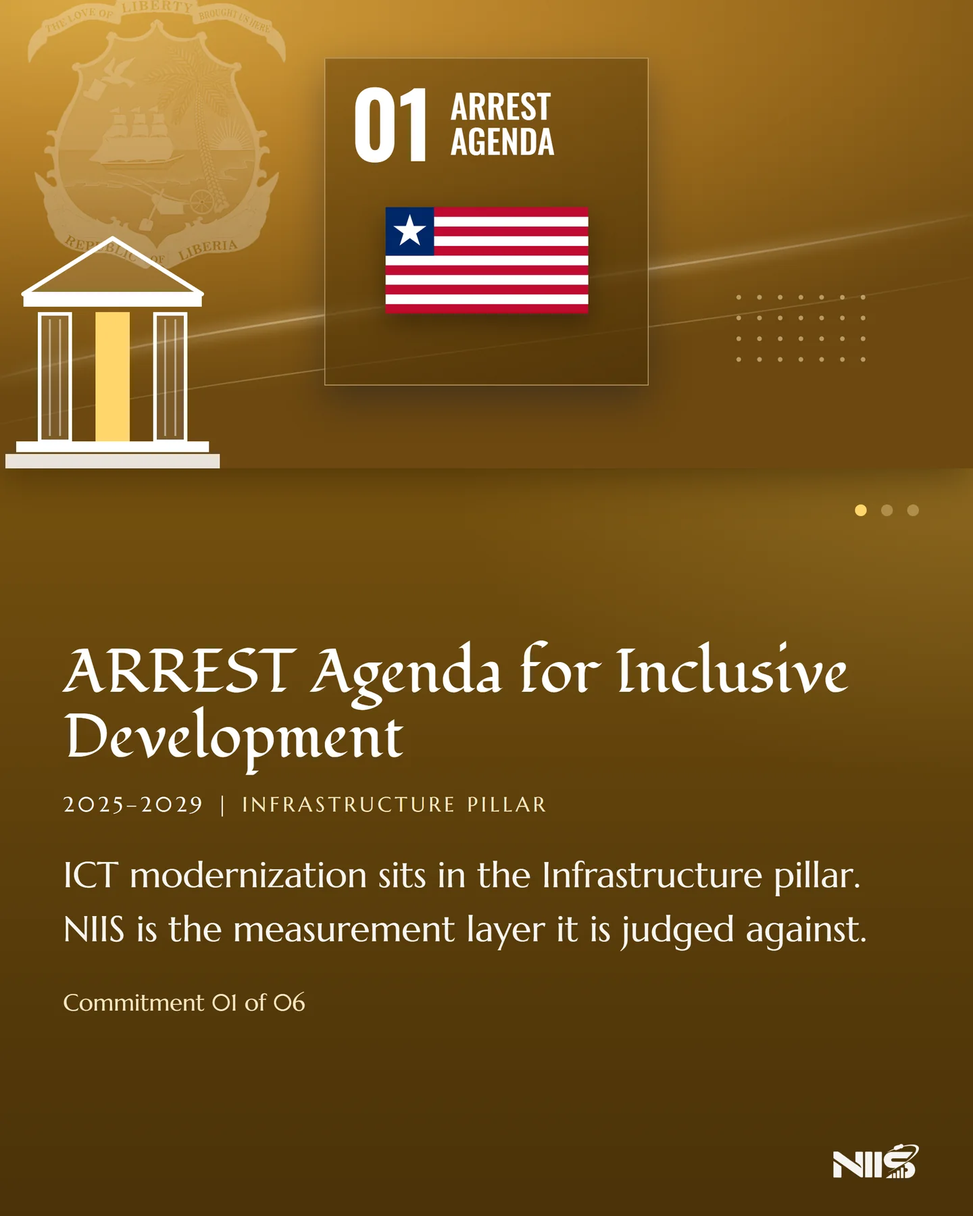
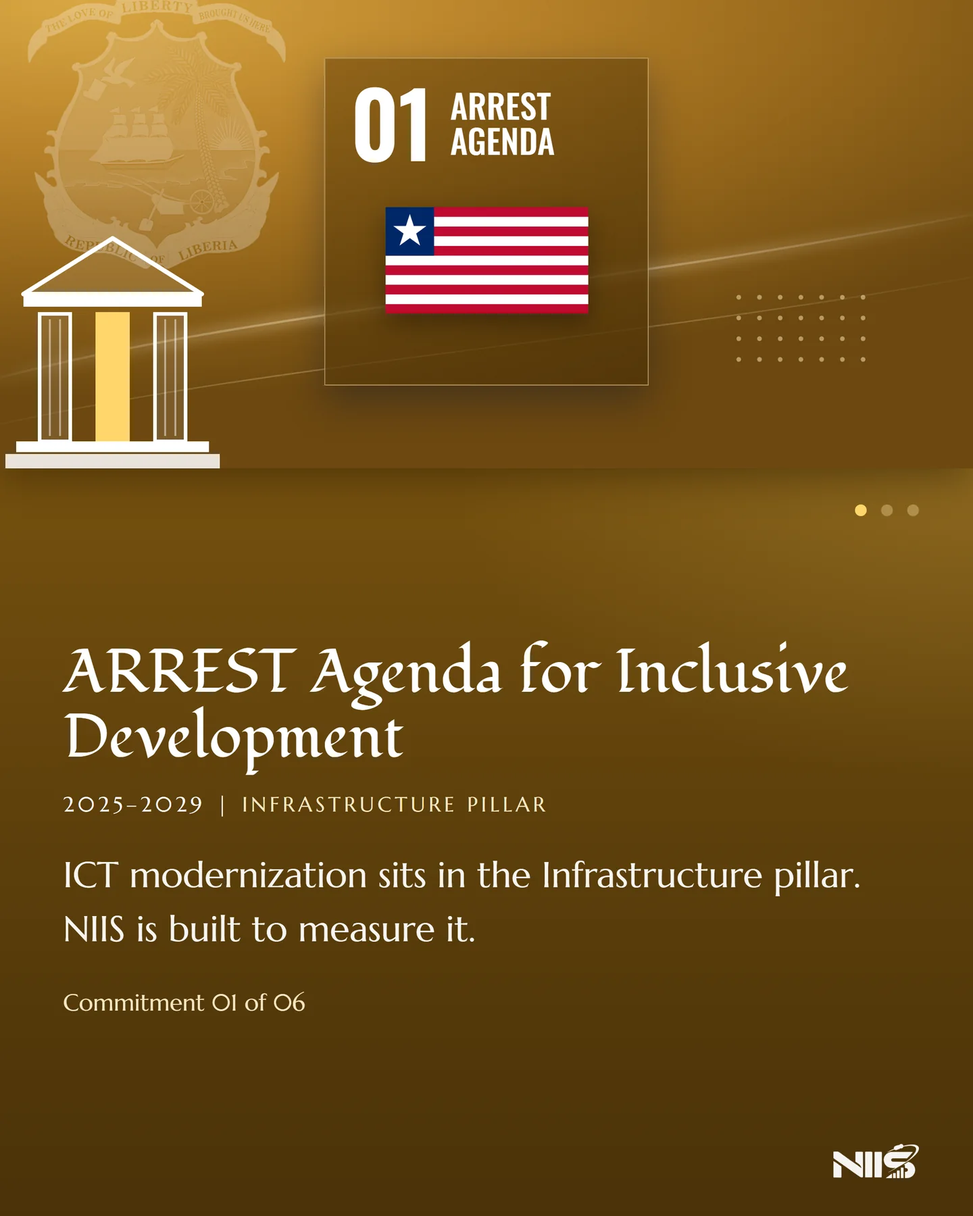
Site: nothing says or implies the Government of Liberia funds or works with NIIP
The owner (9 Nov 2026): NIIP intends to work with the government and is in talks ahead
of its official launch in 2027.

- About: "funded by the Government of Liberia" removed; the mission no longer calls
  NIIS the official source, and the answer no longer has it serving the President.
- FAQ: who NIIP is, in the owner's words (intends to work with the government, talks
  ahead of the 2027 launch); data credited to NIIP, not a Ministry unit.
- The "ICT Statistics & Policy Unit" at the Ministry becomes the NIIP team everywhere
  (research submissions, careers, messages, the workspace, errors).
- Our Partners: no ministry or government agency is listed (rows and logos are kept).
- Footer: the LTA and Ministry links that led to NIIP's own About page are gone.
- About commitment cards 01 and 02 re-rendered: NIIS is built to measure and serve
  those commitments, not their official instrument.
- Data Explorer: an indicator's original agency is no longer sent to the browser.

Kept at the owner's word: the patrons, the Ministry building on the first slide, the
officials' quotes. The documents are unchanged for now.

Changed region(s): [[0.1875, 0.7467, 0.875, 0.7778]]

diff --git a/views.js b/views.js
@@ -249,8 +249,6 @@ function footerDh() {
         <div class="footer-social"><a class="s-fb" href="#" aria-label="Facebook"><svg viewBox="0 0 320 512" aria-hidden="true"><path d="M80 299.3V512H196V299.3h86.5l18-97.8H196V166.9c0-51.7 20.3-71.5 72.7-71.5c16.3 0 29.4 .4 37 1.2V7.9C291.4 4 256.4 0 236.2 0C129.3 0 80 50.5 80 159.4v42.1H14v97.8H80z"/></svg></a><a class="s-x" href="#" aria-label="X"><svg viewBox="0 0 512 512" aria-hidden="true"><path d="M389.2 48h70.6L305.6 224.2 487 464H345L233.7 318.6 106.5 464H35.8L200.7 275.5 26.8 48H172.4L272.9 180.9 389.2 48zM364.4 421.8h39.1L151.1 88h-42L364.4 421.8z"/></svg></a><a class="s-li" href="#" aria-label="LinkedIn"><svg viewBox="0 0 448 512" aria-hidden="true"><path d="M100.28 448H7.4V148.9h92.88zM53.79 108.1C24.09 108.1 0 83.5 0 53.8a53.79 53.79 0 0 1 107.58 0c0 29.7-24.1 54.3-53.79 54.3zM447.9 448h-92.68V302.4c0-34.7-.7-79.2-48.29-79.2-48.29 0-55.69 37.7-55.69 76.7V448h-92.78V148.9h89.08v40.8h1.3c12.4-23.5 42.69-48.3 87.88-48.3 94 0 111.28 61.9 111.28 142.3V448z"/></svg></a><a class="s-ig" href="#" aria-label="Instagram"><svg viewBox="0 0 448 512" aria-hidden="true"><path d="M224.1 141c-63.6 0-114.9 51.3-114.9 114.9s51.3 114.9 114.9 114.9S339 319.5 339 255.9 287.7 141 224.1 141zm0 189.6c-41.1 0-74.7-33.5-74.7-74.7s33.5-74.7 74.7-74.7 74.7 33.5 74.7 74.7-33.6 74.7-74.7 74.7zm146.4-194.3c0 14.9-12 26.8-26.8 26.8-14.9 0-26.8-12-26.8-26.8s12-26.8 26.8-26.8 26.8 12 26.8 26.8zm76.1 27.2c-1.7-35.9-9.9-67.7-36.2-93.9-26.2-26.2-58-34.4-93.9-36.2-37-2.1-147.9-2.1-184.9 0-35.8 1.7-67.6 9.9-93.9 36.1s-34.4 58-36.2 93.9c-2.1 37-2.1 147.9 0 184.9 1.7 35.9 9.9 67.7 36.2 93.9s58 34.4 93.9 36.2c37 2.1 147.9 2.1 184.9 0 35.9-1.7 67.7-9.9 93.9-36.2 26.2-26.2 34.4-58 36.2-93.9 2.1-37 2.1-147.8 0-184.8zM398.8 388c-7.8 19.6-22.9 34.7-42.6 42.6-29.5 11.7-99.5 9-132.1 9s-102.7 2.6-132.1-9c-19.6-7.8-34.7-22.9-42.6-42.6-11.7-29.5-9-99.5-9-132.1s-2.6-102.7 9-132.1c7.8-19.6 22.9-34.7 42.6-42.6 29.5-11.7 99.5-9 132.1-9s102.7-2.6 132.1 9c19.6 7.8 34.7 22.9 42.6 42.6 11.7 29.5 9 99.5 9 132.1s2.7 102.7-9 132.1z"/></svg></a></div>
       </div>
       <div><h4>Links</h4>
-        <a href="/about">Liberia Telecommunications Authority</a>
-        <a href="/about">Ministry of Posts &amp; Telecommunications</a>
         <a href="/about">Harris &amp; Associates LLC</a>
         <a href="/research">Research Papers</a>
         <a href="/research/group">Research Group</a>
@@ -1587,7 +1585,7 @@ exports.dataExplorer = (ctx, { indicators, indicatorsByDomain, domainOrder, doma
     </div>
     <div class="dx-fs-body" id="dx-fs-body"></div>
   </div>
-  <script>window.__NICTD_PAGE__='explorer';window.__EXPLORER_STATE__=${JSON.stringify({ indicator: meta.code, year: meta.year || 2025, focus: focus || '', compare: compare || '', indicators, counties: counties.map((c) => ({ name: c.name })) })};</script>`,
+  <script>window.__NICTD_PAGE__='explorer';window.__EXPLORER_STATE__=${JSON.stringify({ indicator: meta.code, year: meta.year || 2025, focus: focus || '', compare: compare || '', indicators: indicators.map(({ agencyOriginal, ...i }) => i), counties: counties.map((c) => ({ name: c.name })) })};</script>`,
 });
 
 
@@ -1878,8 +1876,8 @@ exports.dashboardTopic = (ctx, { slug, label, description, counties, narrative }
 const SLIDES = [
   ['What we do. 15 counties, collected, validated, published. We collect, validate and publish Liberia’s ICT statistics for all 15 counties, and we build the infrastructure that keeps them at home.'],
   ['Why we do it. For Liberia’s national commitments, and to create jobs for young Liberians in tech: 174 positions across eight role types, from enumerators and supervisors in every county to research leads, data engineers, GIS and sampling specialists, quality analysts and developers, recruited from Liberian STEM graduates and trained locally. See open roles.', '/careers'],
-  ['Commitment 1 of 6: ARREST Agenda for Inclusive Development, 2025 to 2029. ICT modernization sits in the Infrastructure pillar. NIIS is the measurement layer it is judged against.'],
-  ['Commitment 2 of 6: National Digital Strategy, 2025 to 2029, of the Ministry of Posts and Telecommunications. Cybersecurity and data sovereignty is one of its eight priorities. This is that pillar, made operational.'],
+  ['Commitment 1 of 6: ARREST Agenda for Inclusive Development, 2025 to 2029. ICT modernization sits in the Infrastructure pillar. NIIS is built to measure it.'],
+  ['Commitment 2 of 6: National Digital Strategy, 2025 to 2029, of the Ministry of Posts and Telecommunications. Cybersecurity and data sovereignty is one of its eight priorities. NIIS is built to serve it.'],
   ['Commitment 3 of 6: Data Protection Act, enacted 2026. Built to Liberia’s first personal-data law: aggregate, anonymized statistics only.'],
   ['Commitment 4 of 6: AU Data Policy Framework, adopted 2022. Continental policy since 2022: member states are expected to hold and govern their own data.'],
   ['Commitment 5 of 6: United Nations Sustainable Development Goals, Target 17.18. Increase significantly the availability of high-quality, timely and reliable data disaggregated by income, gender, age, race, ethnicity, migratory status, disability, geographic location and other characteristics relevant in national contexts. County-level is the target, verbatim.'],
@@ -1905,9 +1903,9 @@ exports.about = (ctx, { indicatorCount = 0, domainCount = 0 } = {}) => {
   // the mission, the problem and the answer, cut short for the kinetic type (the owner asked for few
   // words); the words between asterisks are set in blue
   const story = [
-    ['“THE MISSION”', 'Liberia’s *official* source of ICT data. All *fifteen counties.* One *trusted* system.'],
+    ['“THE MISSION”', 'Liberia’s *own* source of ICT data. All *fifteen counties.* One *trusted* system.'],
     ['“THE PROBLEM”', 'For two decades, Liberia’s digital story was told with numbers from *somewhere else.*'],
-    ['“THE ANSWER”', 'President Boakai wants to *modernize* ICT in Liberia. NIIS gives him the data he needs in *real time.*'],
+    ['“THE ANSWER”', 'Liberia wants to *modernize* its ICT. NIIS will give it the data it needs in *real time.*'],
   ];
 
   const bench = [
@@ -1920,14 +1918,14 @@ exports.about = (ctx, { indicatorCount = 0, domainCount = 0 } = {}) => {
   ];
 
   const faqs = [
-    ['How is NIIS data licensed?', 'All open data published through NIIS is available under an open licence for research, journalism and policy use, with attribution to the ICT Statistics & Policy Unit, Ministry of Posts and Telecommunications. Open by default is a design principle, not a concession.'],
+    ['How is NIIS data licensed?', 'All open data published through NIIS is available under an open licence for research, journalism and policy use, with attribution to the National ICT Intelligence Program (NIIP). Open by default is a design principle, not a concession.'],
     ['How often is the data updated?', 'Most indicators refresh annually following the national survey wave; a subset fed by operator data-sharing agreements refreshes biennially. Each indicator’s periodicity is shown in the Indicator Catalogue.'],
     ['How is this different from the data international agencies already publish on Liberia?', 'International datasets are indispensable and we use them. But where national returns are incomplete they are modelled or trend-projected, and they report Liberia as one national figure. NIIS collects observed values, disaggregates them to all 15 counties, and publishes the method alongside the number.'],
-    ['Is NIIP a government body or a private initiative?', 'NIIP is a private-sector-led initiative delivering a national public good, working with the Ministry of Posts and Telecommunications and contributing agencies under data-sharing cooperation. The platform is built to be handed to, and sustained by, Liberian institutions.'],
+    ['Is NIIP a government body or a private initiative?', 'NIIP is a private-sector-led initiative delivering a national public good. We intend to work with the Government of Liberia, and have been holding very progressive talks ahead of our official launch in 2027. The platform is built to be handed to, and sustained by, Liberian institutions.'],
     ['What happens when donor funding ends?', 'The programme is designed for transition, not dependency: infrastructure hosted in-country, methodology documented and published, staff recruited and trained locally, and a services and licensing model intended to carry recurring costs after the establishment phase.'],
     ['How do you protect personal data?', 'NIIS publishes aggregate, anonymized statistics only. It collects no individual-level personal data beyond what is required to produce those aggregates, in line with Liberia’s Data Protection Act.'],
-    ['How do I request a new indicator?', 'Registered users can reach the ICT Statistics & Policy Unit directly through the platform’s messaging system once logged in.'],
-    ['Can I use this data in a publication?', 'Yes, cite NIIS and the ICT Statistics & Policy Unit. Values are demonstration data pending production feeds; check the methodology note on each indicator before publication.'],
+    ['How do I request a new indicator?', 'Registered users can reach the NIIP team directly through the platform’s messaging system once logged in.'],
+    ['Can I use this data in a publication?', 'Yes, cite NIIS and the National ICT Intelligence Program (NIIP). Values are demonstration data pending production feeds; check the methodology note on each indicator before publication.'],
   ];
 
   const rise = (i = 0) => ` data-rise style="--i:${i}"`;
@@ -1961,7 +1959,7 @@ exports.about = (ctx, { indicatorCount = 0, domainCount = 0 } = {}) => {
           <img src="/img/about/analysts.jpg?v=${ASSET_V}" alt="Liberian analysts at their screens, maps of the country open in front of them" loading="lazy" decoding="async">
         </figure>
         <dl class="cs-rows ab-rows">
-          <div class="cs-row"><dt><span class="cs-tag">The program</span></dt><dd data-fill><b>NIIP</b> is the acronym for the National ICT Intelligence Program: a private-sector project, funded by the Government of Liberia, international agencies, private-sector stakeholders and institutions, to collect and continuously maintain Liberia’s ICT data, disaggregated across all 15 counties.</dd></div>
+          <div class="cs-row"><dt><span class="cs-tag">The program</span></dt><dd data-fill><b>NIIP</b> is the acronym for the National ICT Intelligence Program: a private-sector project, funded by international agencies, private-sector stakeholders and institutions, to collect and continuously maintain Liberia’s ICT data, disaggregated across all 15 counties.</dd></div>
           <div class="cs-row"><dt><span class="cs-tag">The software</span></dt><dd data-fill>Its data system, <b>NIIS</b> (the National ICT Intelligence System), runs on three tiers of software. Secured databases store the ICT data we collect; a data-analytics algorithm draws on them; and the platform it feeds gives the public, anywhere in the world, access to ICT data across ${indicatorCount || 168} indicators.</dd></div>
           <div class="cs-row"><dt><span class="cs-tag">The research</span></dt><dd data-fill>NIIP is also an accelerator of ICT research. We have built a repository of all publicly available Liberian ICT research papers, we collect and host papers by Liberian ICT researchers, and we help researchers get published. We are also bringing together in one place, for the public, the ICT reports of government institutions, regulators and service providers.</dd></div>
           <div class="cs-row"><dt><span class="cs-tag">The access</span></dt><dd data-fill>We provide training and boot camps in partnership with international and local universities. And anyone who wants more data, a particular dataset or a new indicator can open a secure account on the platform, to search and save papers and reports, submit their research, and search for a job.</dd></div>
@@ -2043,11 +2041,11 @@ exports.submitPaper = (ctx, { errors = [], values = {}, done = false } = {}) => 
   if (done) {
     return shell(ctx, {
       title: 'Submission received', active: '/research', workspaceActive: 'research', body: `
-    ${pageHeader('research', 'Submission received', 'Thank you, your paper is now with the ICT Statistics & Policy Unit.')}
+    ${pageHeader('research', 'Submission received', 'Thank you, your paper is now with the NIIP team.')}
     <div class="wrap section narrow">
       <div class="panel sp-done">
         <h2>${icon('shield')} Your paper has been submitted for review</h2>
-        <p>The ICT Statistics &amp; Policy Unit reviews every submission before publication. We will contact you at the
+        <p>The NIIP team reviews every submission before publication. We will contact you at the
            email address you provided with the outcome. Review normally takes ten working days.</p>
         <p class="muted">Nothing is published until a reviewer approves it, and your contact details are never published
            alongside the paper, they are used only to reach you about this submission.</p>
@@ -3494,7 +3492,7 @@ exports.research = (ctx, { papers = [], canManage = false, canSubmit = false, no
     <div id="rsLib">${bbcLayout({ h1: 'Research papers', tag: 'h2', lead: paperRow(papers[0]), rows: papers.slice(1).map(paperRow) })}</div>
     <div class="rs-empty" hidden><p>No paper matches that search.</p><button type="button" class="ui-btn" data-rs-reset>Show all papers</button></div>
     <script>window.__RS__=${JSON.stringify({ years, types }).replace(/</g, '\\u003c')};</script>
-  </section>` : '<div class="wrap section"><div class="rp-empty"><p class="rp-empty-t">No research papers are published yet.</p><p>New papers appear here as soon as the Unit publishes them.</p></div></div>';
+  </section>` : '<div class="wrap section"><div class="rp-empty"><p class="rp-empty-t">No research papers are published yet.</p><p>New papers appear here as soon as NIIP publishes them.</p></div></div>';
 
   if (canManage) return shell(ctx, { title: 'Research Papers', workspaceActive: 'research', body: researchAdminBody(papers, notice) });
 
@@ -3509,7 +3507,7 @@ exports.research = (ctx, { papers = [], canManage = false, canSubmit = false, no
   <div class="wrap section page-black">
     ${canSubmit ? `<div class="panel" style="margin-top:2rem">
       <h2>Submit your research</h2>
-      <p class="muted">Submit a paper or report for the ICT Statistics &amp; Policy Unit to review. Approved submissions are published to this library.</p>
+      <p class="muted">Submit a paper or report for the NIIP team to review. Approved submissions are published to this library.</p>
       <form method="post" action="/research/submit" class="grid-form">
         <label>Title *<input name="title" required maxlength="240"></label>
         <label>Author(s) *<input name="authors" required maxlength="200" placeholder="Your name / institution"></label>
@@ -3580,7 +3578,7 @@ function researchAdminBody(papers, notice) {
       <h2>Upload a paper</h2>
       <form method="post" action="/admin/papers/create" class="grid-form">
         <label>Title *<input name="title" required maxlength="240"></label>
-        <label>Author(s)<input name="authors" maxlength="200" placeholder="ICT Statistics &amp; Policy Unit"></label>
+        <label>Author(s)<input name="authors" maxlength="200" placeholder="NIIP"></label>
         <label>Category<select name="tag"><option>Report</option><option>Working Paper</option><option>Policy Brief</option><option>Dataset Note</option><option>Article</option></select></label>
         <label>Downloadable<select name="downloadable"><option value="1">Yes, users can download</option><option value="0">No, read only</option></select></label>
         <label style="grid-column:1/-1">Abstract *<textarea name="abstract" rows="3" required maxlength="1200"></textarea></label>
@@ -4064,7 +4062,7 @@ exports.updatePage = (ctx, { items, index }) => {
         <h1 id="updTitle" aria-label="${esc(title)}"><span aria-hidden="true">${riseWords(title)}</span></h1>
         <p class="upd-lead">${esc(body)}</p>
         ${shareBar(ctx, '/updates/' + updateSlug(u), title)}
-        ${demo ? `<p class="upd-demo" role="note">${icon('info')}<span><strong>Demonstration data.</strong> The figures in this update come from NIIS's demonstration dataset. Live Ministry feeds are not public yet, so they are not official statistics.</span></p>` : ''}
+        ${demo ? `<p class="upd-demo" role="note">${icon('info')}<span><strong>Demonstration data.</strong> The figures in this update come from NIIS's demonstration dataset. Live data feeds are not public yet, so they are not official statistics.</span></p>` : ''}
         <figure class="upd-figure">
           <img src="${esc(photo)}" alt="" width="1200" height="675" decoding="async">
           <figcaption>Illustrative photo from the NIIP image library.</figcaption>
@@ -4753,7 +4751,7 @@ exports.careers = (ctx) => {
     ['What happens after I apply?', 'Shortlisted applicants are contacted for a short interview, plus a practical exercise for data and platform roles.'],
     monrovia.length ? ['Where are the data roles based?', `${monrovia.join(' and ')} ${monrovia.length > 1 ? 'are full-time roles' : 'is a full-time role'} in Monrovia.`] : null,
     ['What do I need to apply?', 'Your CV as a PDF or Word file, up to 4 MB, and your county. A cover note is optional.'],
-    ['Who handles applications?', 'The ICT Statistics & Policy Unit at the Ministry of Posts & Telecommunications.'],
+    ['Who handles applications?', 'The NIIP team.'],
   ].filter(Boolean);
   const steps = [
     ['search', 'Find a role', 'Read the open roles above and pick the one that fits your team, type and place.'],
@@ -4811,7 +4809,7 @@ exports.careers = (ctx) => {
       <div class="cs-wrap cs-dark-in">
         <span class="cs-frame" aria-hidden="true"></span>
         <h2 id="csDarkTitle" class="cs-h2 cs-h2-lg" aria-label="Recruited county by county, as each data-collection wave opens.">${csDecode('Recruited county by county,')}${csDecode('as each data-collection wave opens.', 'cs-dim')}</h2>
-        <div class="cs-ctas">${csBtn('/about', 'Contact the Unit')}</div>
+        <div class="cs-ctas">${csBtn('/about', 'Contact us')}</div>
       </div>
     </section>
 
@@ -4828,7 +4826,7 @@ exports.careers = (ctx) => {
         <div class="cs-faq-head">
           <span class="cs-mark" aria-hidden="true"></span>
           <h2 id="csFaqTitle" class="cs-h2 cs-h2-xl">FAQ</h2>
-          <p class="cs-faq-more"><span>Got more questions?</span> ${csBtn('/about', 'Contact the Unit', 'cs-btn-light')}</p>
+          <p class="cs-faq-more"><span>Got more questions?</span> ${csBtn('/about', 'Contact us', 'cs-btn-light')}</p>
         </div>
         <div class="cs-faq-list">${faq.map(([q, a], i) => `<details class="cs-q"><summary><span class="cs-q-n" aria-hidden="true">${String(i + 1).padStart(2, '0')}</span><span class="cs-q-t">${esc(q)}</span><span class="cs-q-x" aria-hidden="true"></span></summary><div class="cs-q-a"><p>${esc(a)}</p></div></details>`).join('')}</div>
       </div>
@@ -4857,14 +4855,14 @@ function careerSent(ctx, role, reference) {
           <svg viewBox="0 0 48 48" class="cs-ok-check"><polyline points="13 25 21 33 36 16"/></svg>
         </div>
         <h1 id="csOkTitle" class="cs-h1 cs-ok-h" aria-label="Congratulations! Application sent.">${csDecode('Congratulations!')}${csDecode('Application sent.', 'cs-dim')}</h1>
-        <p class="cs-ok-sub" role="status">Your application for <strong>${esc(role.title)}</strong> is with the ICT Statistics &amp; Policy Unit.</p>
+        <p class="cs-ok-sub" role="status">Your application for <strong>${esc(role.title)}</strong> is with the NIIP team.</p>
         <dl class="cs-ap-meta cs-ok-meta">
           ${reference ? `<div><dt>Your reference</dt><dd class="cs-ok-ref">${esc(reference)}</dd></div>` : ''}
           <div><dt>Role</dt><dd>${esc(role.title)}</dd></div>
           <div><dt>Team</dt><dd>${esc(role.unit)}</dd></div>
           ${sentOn ? `<div><dt>Sent</dt><dd>${esc(sentOn)}</dd></div>` : ''}
         </dl>
-        ${reference ? '<p class="cs-ok-keep">Keep this reference. Quote it if you contact the Unit about your application.</p>' : ''}
+        ${reference ? '<p class="cs-ok-keep">Keep this reference. Quote it if you contact us about your application.</p>' : ''}
       </div>
     </section>
     <section class="cs-ap-body cs-ok-body" aria-labelledby="csNextTitle">
@@ -4872,7 +4870,7 @@ function careerSent(ctx, role, reference) {
         <span class="cs-mark" aria-hidden="true"></span>
         <h2 id="csNextTitle" class="cs-h2">What happens next</h2>
         <ol class="cs-ok-steps">
-          <li><span aria-hidden="true">${icon('check')}</span><div><h3>Application sent</h3><p>Your details and CV have reached the Unit.</p></div></li>
+          <li><span aria-hidden="true">${icon('check')}</span><div><h3>Application sent</h3><p>Your details and CV have reached the NIIP team.</p></div></li>
           <li><span aria-hidden="true">${icon('chat')}</span><div><h3>Screening</h3><p>Shortlisted applicants are contacted for a short interview${role.unit === 'Data Team' ? ', plus a practical exercise' : ''}.</p></div></li>
           ${field ? `<li><span aria-hidden="true">${icon('book')}</span><div><h3>Training</h3><p>Field roles begin with paid training before a county wave opens.</p></div></li>` : ''}
         </ol>
@@ -4899,7 +4897,7 @@ exports.careerApply = (ctx, { role, counties = [], errors = [], values = {}, fai
   const field = role.unit === 'Data Collection';
   const panel = `
         ${notice ? `<p class="cs-alert" role="alert">${esc(notice)}</p>` : ''}
-        ${failed ? `<p class="cs-alert" role="alert">We could not receive applications online just now, so nothing was sent. Please try again later, or <a href="/about">contact the Unit</a>.</p>` : ''}
+        ${failed ? `<p class="cs-alert" role="alert">We could not receive applications online just now, so nothing was sent. Please try again later, or <a href="/about">contact us</a>.</p>` : ''}
         ${errors.length ? `<p class="cs-alert" role="alert">Please check the highlighted fields.${values.cv_lost ? ' Choose your CV again: a file is never kept when the form comes back.' : ''}</p>` : ''}
         <form class="cs-form" id="csForm" method="post" action="/careers/apply" enctype="multipart/form-data" novalidate>
           <input type="hidden" name="role" value="${esc(role.title)}">
@@ -5074,7 +5072,7 @@ const WS_SERVICES = [
   ['research', '/research', 'book', 'Research library', 'The papers on Liberia’s ICT sector, each with NIIS’s own summary.', () => true],
   ['media', '/media', 'image', 'Media library', 'Images, research papers and video from the program.', () => true],
   ['analytics', '/analytics', 'chart', 'Platform analytics', 'Usage and trends across the stored data.', (r, has) => has('analytics')],
-  ['messages', '/messages', 'chat', 'Messages', 'Your direct line to the ICT Statistics & Policy Unit.', (r, has) => has('messaging')],
+  ['messages', '/messages', 'chat', 'Messages', 'Your direct line to the NIIP team.', (r, has) => has('messaging')],
   ['admin', '/admin', 'shield', 'Admin panel', 'Accounts, the review queue, content and platform settings.', (r, has) => has('manage_users')],
   ['inbox', '/admin/inbox', 'inbox', 'Team inbox', 'Every conversation, shared across the administration team.', (r, has) => has('admin_inbox')],
   ['images', '/admin/images', 'image', 'Image library', 'Every photo slot on the site: upload, replace, restore.', (r, has) => has('manage_content')],
@@ -5179,7 +5177,7 @@ exports.requestIndicator = (ctx, { sent = false, error = '', values = {}, indica
     ${wsSeal}
     <p class="kicker">Services</p>
     <h1>Request an indicator.</h1>
-    <p class="lede-sm">Ask the team to measure something NIIS does not track yet. The request goes to the ICT Statistics &amp; Policy Unit’s inbox, and the reply comes to your <a href="/messages">Messages</a>. ${indicatorCount ? `NIIS tracks ${fmt(indicatorCount)} indicators today; see them in the <a href="/data">Data Explorer</a>.` : 'See what NIIS tracks today in the <a href="/data">Data Explorer</a>.'}</p>
+    <p class="lede-sm">Ask the team to measure something NIIS does not track yet. The request goes to the NIIP team’s inbox, and the reply comes to your <a href="/messages">Messages</a>. ${indicatorCount ? `NIIS tracks ${fmt(indicatorCount)} indicators today; see them in the <a href="/data">Data Explorer</a>.` : 'See what NIIS tracks today in the <a href="/data">Data Explorer</a>.'}</p>
     ${sent ? '<div class="alert alert-ok">Sent to the team. The reply comes to your Messages.</div>' : ''}
     ${error ? `<div class="alert alert-error" role="alert">${esc(error)}</div>` : ''}
     <div class="panel">
@@ -5300,7 +5298,7 @@ function messageThread(msgs) {
   if (!msgs.length) return '<p class="muted">No messages yet. Start the conversation below.</p>';
   return `<div class="thread">${msgs.map((m) => `
     <div class="msg ${m.from_admin_team ? 'msg-admin' : 'msg-user'}">
-      <div class="msg-head mono">${m.from_admin_team ? 'ICT Statistics & Policy Unit' : esc(m.sender_name)} · ${esc(fmtTs(m.created_at))}</div>
+      <div class="msg-head mono">${m.from_admin_team ? 'NIIP team' : esc(m.sender_name)} · ${esc(fmtTs(m.created_at))}</div>
       <div class="msg-body">${esc(m.body)}</div>
     </div>`).join('')}</div>`;
 }
@@ -5308,7 +5306,7 @@ exports.messages = (ctx, { conv, msgs }) => appLayout(ctx, {
   title: 'Messages', active: 'messages', body: `
   <p class="kicker">Messaging</p>
   <h1>Message box</h1>
-  <p class="lede-sm">A direct line between your account and the ICT Statistics &amp; Policy Unit, no outside email needed. Messages are answered from a shared team inbox (checked regularly, not real-time chat).</p>
+  <p class="lede-sm">A direct line between your account and the NIIP team, no outside email needed. Messages are answered from a shared team inbox (checked regularly, not real-time chat).</p>
   ${conv && conv.subject ? `<p class="mono muted">Subject: ${esc(conv.subject)}</p>` : ''}
   ${messageThread(msgs)}
   <form method="post" action="/messages" class="msg-form">
@@ -5337,7 +5335,7 @@ exports.adminConversation = (ctx, { conv, msgs }) => appLayout(ctx, {
   ${conv.subject ? `<p class="mono muted">Subject: ${esc(conv.subject)}</p>` : ''}
   ${messageThread(msgs)}
   <form method="post" action="/admin/inbox/${conv.id}" class="msg-form">
-    <label>Reply as ICT Statistics &amp; Policy Unit<textarea name="body" rows="4" required maxlength="4000"></textarea></label>
+    <label>Reply as the NIIP team<textarea name="body" rows="4" required maxlength="4000"></textarea></label>
     <button class="btn btn-teal" type="submit" style="margin-top:.8rem">Send reply</button>
   </form>`,
 });
@@ -5716,6 +5714,6 @@ exports.apiDocs = (ctx) => shell(ctx, { title: 'API Documentation', workspaceAct
 
 // ============ misc ============
 const wrapMisc = (ctx, title, inner) => shell(ctx || { user: null, perms: [] }, { title, body: `<div class="wrap section narrow">${inner}</div>` });
-exports.forbidden = (ctx) => wrapMisc(ctx, 'Access restricted', `<h1>Access restricted</h1><p class="muted">Your role does not include permission for this area. Contact the ICT Statistics &amp; Policy Unit via <a href="/messages">messaging</a> if you believe this is an error.</p>`);
+exports.forbidden = (ctx) => wrapMisc(ctx, 'Access restricted', `<h1>Access restricted</h1><p class="muted">Your role does not include permission for this area. Contact the NIIP team via <a href="/messages">messaging</a> if you believe this is an error.</p>`);
 exports.notFound = (ctx) => wrapMisc(ctx, 'Not found', `<h1>Page not found</h1><p class="muted">The page you requested does not exist. <a href="/">Return home</a>.</p>`);
 exports.errorPage = (ctx, msg) => wrapMisc(ctx, 'Error', `<h1>Something went wrong</h1><p class="muted">${esc(msg)}</p>`);

diff --git a/server.js b/server.js
@@ -166,6 +166,10 @@ const ADDED_PARTNERS = [
   { slug: 'gonet', name: 'Gonet Academy' },
   { slug: 'ul', name: 'University of Liberia' },
 ];
+// Government bodies are not shown on Our Partners: NIIP intends to work with the Government of Liberia and
+// is in talks ahead of its official launch in 2027, so no ministry or agency is presented as a partner (the
+// owner, 9 Nov 2026). Their rows and logos stay in the database and the Image Library, for when that changes.
+const GOVERNMENT_BODIES = new Set(['mopt', 'lta', 'lisgis', 'cbl', 'moe', 'moh', 'moa', 'epa', 'lra', 'nic', 'moys', 'nir', 'cert']);
 const notSeeded = (kind, rows) => (rows || []).filter((r) => !SEEDED[kind].has(String(r.title || '').trim()));
 const APPLY_DIR = path.join(__dirname, 'data', 'applications');
 const CV_MAX = 4 * 1024 * 1024;   // under the 4.5 MB request limit of a hosted function (Vercel)
@@ -718,7 +722,8 @@ async function handler(req, res) {
       if (p === '/partners') {
         logEvent('page_view', p, user);
         const listed = await sdb.sel('partners?select=*&visible=eq.true&order=sort_order,name');
-        const partners = listed.concat(ADDED_PARTNERS.filter((a) => !listed.some((p) => p.slug === a.slug)));
+        const partners = listed.concat(ADDED_PARTNERS.filter((a) => !listed.some((p) => p.slug === a.slug)))
+          .filter((p) => !GOVERNMENT_BODIES.has(p.slug));
         return send(res, 200, views.partners(ctx, { partners }));
       }
       // Dashboards was replaced by Our Partners in the navigation. The page itself is kept
@@ -752,7 +757,7 @@ async function handler(req, res) {
         return send(res, 401, views.login(ctx, { error: 'Invalid email or password.' }));
       }
       if (u.status === 'pending') return send(res, 403, views.login(ctx, { error: 'Your account is awaiting verification by an administrator.' }));
-      if (u.status === 'suspended') return send(res, 403, views.login(ctx, { error: 'This account is suspended. Contact the ICT Statistics & Policy Unit.' }));
+      if (u.status === 'suspended') return send(res, 403, views.login(ctx, { error: 'This account is suspended. Contact the NIIP team.' }));
       const token = crypto.randomBytes(32).toString('hex');
       await sdb.ins('sessions', [{ token, user_id: u.id, expires_at: new Date(Date.now() + SESSION_HOURS * 3600 * 1000).toISOString() }]);
       cache.sessions.set(token, { user: u, expiresAt: Date.now() + 60 * 1000 });
@@ -858,7 +863,7 @@ async function handler(req, res) {
 
       const errors = [];
       if (!f.full_name) errors.push({ field: 'full_name', message: 'Your full name is required.' });
-      if (!f.email) errors.push({ field: 'email', message: 'An email address is required, so the Unit can reply.' });
+      if (!f.email) errors.push({ field: 'email', message: 'An email address is required, so we can reply.' });
       else if (!/^[^\s@]+@[^\s@]+\.[^\s@]{2,}$/.test(f.email)) errors.push({ field: 'email', message: 'That email address does not look right.' });
       if (f.phone && !/^[0-9+()\-\s]{6,40}$/.test(f.phone)) errors.push({ field: 'phone', message: 'Use digits, spaces and + only, or leave it empty.' });
       if (!counties.includes(f.county)) errors.push({ field: 'county', message: 'Choose your county.' });
@@ -866,7 +871,7 @@ async function handler(req, res) {
       if (!file) errors.push({ field: 'cv', message: 'Attach your CV as a PDF or Word file.' });
       else if (file.data.length > CV_MAX) errors.push({ field: 'cv', message: 'That CV is larger than 4 MB. Please send a smaller file.' });
       else if (!cv) errors.push({ field: 'cv', message: 'The CV must be a PDF or Word document (.pdf, .doc or .docx).' });
-      if (!f.consent) errors.push({ field: 'consent', message: 'Please agree so the Unit can keep and assess your application.' });
+      if (!f.consent) errors.push({ field: 'consent', message: 'Please agree so we can keep and assess your application.' });
       if (errors.length) return back(400, role, { errors, values: { ...f, cv_lost: !!file } });
 
       const ip = String(req.headers['x-forwarded-for'] || req.socket.remoteAddress || '').split(',')[0].trim();
@@ -1301,7 +1306,7 @@ async function handler(req, res) {
         if (p === '/admin/papers/create') {
           if (!hasPerm(user, 'manage_content')) return send(res, 403, views.forbidden(ctx));
           if (f.title && f.abstract) await sdb.ins('papers', [{
-            title: f.title.trim(), authors: (f.authors || 'ICT Statistics & Policy Unit').trim(), abstract: f.abstract.trim(),
+            title: f.title.trim(), authors: (f.authors || 'NIIP').trim(), abstract: f.abstract.trim(),
             published_on: new Date().toISOString().slice(0, 10), tag: f.tag || 'Report', body: f.body || '',
             status: 'published', visible: true, deleted: false, downloadable: f.downloadable !== '0',
           }]);

diff --git a/design/about-slides/deck.html b/design/about-slides/deck.html
@@ -195,9 +195,9 @@ var D = [
     body: 'For Liberia’s national commitments, and to create jobs for young Liberians in tech: 174 positions across eight role types, from enumerators and supervisors in every county to research leads, data engineers, GIS and sampling specialists, quality analysts and developers, recruited from Liberian STEM graduates and trained locally.',
     cta: 'See open roles' },
   { num: '01', lab: 'ARREST Agenda', ico: 'flag', sign: 'pillars', mark: 'img:seal', theme: 'arrest', h: 'ARREST Agenda for Inclusive Development', sub: ['2025–2029', 'Infrastructure pillar'],
-    body: 'ICT modernization sits in the Infrastructure pillar. NIIS is the measurement layer it is judged against.', foot: 'Commitment 01 of 06' },
+    body: 'ICT modernization sits in the Infrastructure pillar. NIIS is built to measure it.', foot: 'Commitment 01 of 06' },
   { num: '02', lab: 'Digital Strategy', ico: 'flag', sign: 'star8', mark: 'img:mopt', theme: 'mopt', h: 'National Digital Strategy', sub: ['2025–2029', 'Eight national priorities'],
-    body: 'Cybersecurity and data sovereignty is one of its eight priorities. This is that pillar, made operational.', foot: 'Commitment 02 of 06 · Ministry of Posts & Telecommunications' },
+    body: 'Cybersecurity and data sovereignty is one of its eight priorities. NIIS is built to serve it.', foot: 'Commitment 02 of 06 · Ministry of Posts & Telecommunications' },
   { num: '03', lab: 'Data Protection Act', ico: 'flag', sign: 'shield', mark: 'lr', theme: 'dpa', h: 'Data Protection Act', sub: ['Enacted 2026', 'Liberia’s first personal-data law'],
     body: 'Built to Liberia’s first personal-data law: aggregate, anonymized statistics only.', foot: 'Commitment 03 of 06' },
   { num: '04', lab: 'African Union', ico: 'au', sign: 'au', mark: 'map:africa', theme: 'au', h: 'AU Data Policy Framework', sub: ['Adopted 2022', 'Continental policy'],

diff --git a/public/careers.js b/public/careers.js
@@ -118,7 +118,7 @@ if (form) {
   };
   const checks = [
     ['full_name', (v) => (!v.trim() ? 'Your full name is required.' : '')],
-    ['email', (v) => (!v.trim() ? 'An email address is required, so the Unit can reply.' : !/^[^\s@]+@[^\s@]+\.[^\s@]{2,}$/.test(v.trim()) ? 'That email address does not look right.' : '')],
+    ['email', (v) => (!v.trim() ? 'An email address is required, so we can reply.' : !/^[^\s@]+@[^\s@]+\.[^\s@]{2,}$/.test(v.trim()) ? 'That email address does not look right.' : '')],
     ['phone', (v) => (v.trim() && !/^[0-9+()\-\s]{6,40}$/.test(v.trim()) ? 'Use digits, spaces and + only, or leave it empty.' : '')],
     ['county', (v) => (!v ? 'Choose your county.' : '')],
   ];
@@ -131,7 +131,7 @@ if (form) {
     checks.forEach(([name, test]) => { const el = form.elements[name]; if (setErr(el, name, test(el.value)) && !first) first = el; });
     if (setErr(input, 'cv', fileProblem(input.files && input.files[0])) && !first) first = input;
     const consent = form.elements.consent;
-    if (setErr(consent, 'consent', consent.checked ? '' : 'Please agree so the Unit can keep and assess your application.') && !first) first = consent;
+    if (setErr(consent, 'consent', consent.checked ? '' : 'Please agree so we can keep and assess your application.') && !first) first = consent;
     if (first) { e.preventDefault(); first.focus(); return; }
     const btn = form.querySelector('button[type="submit"]');
     btn.disabled = true;
